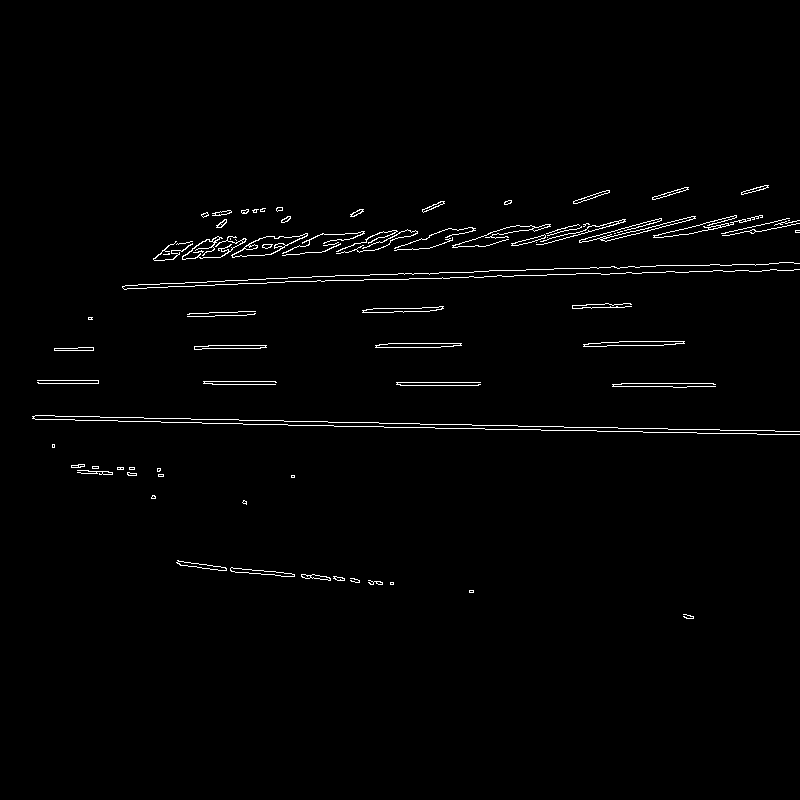
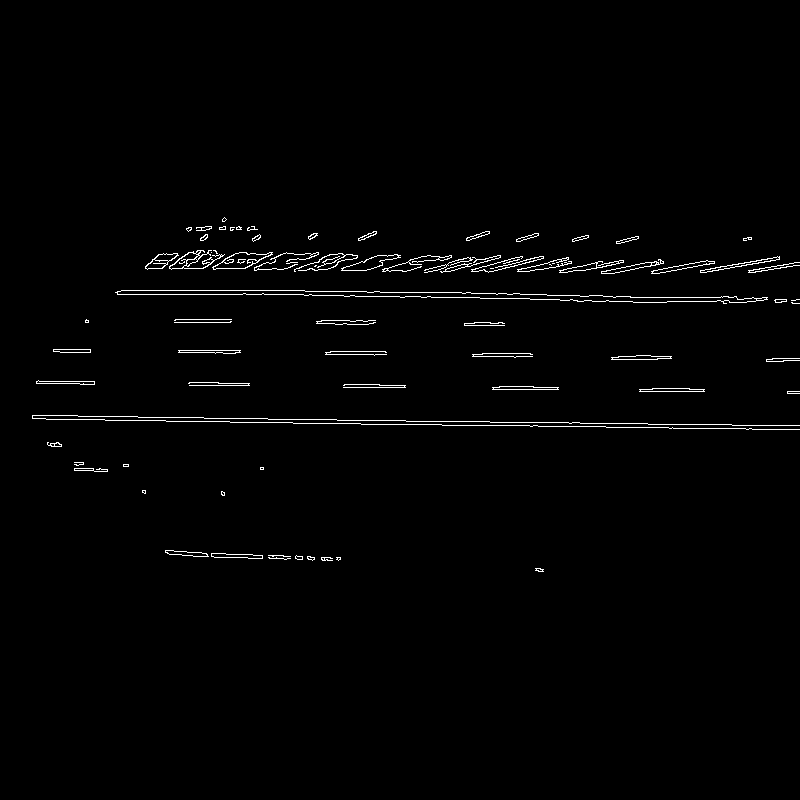
logs removed

diff --git a/ipm.py b/ipm.py
@@ -72,7 +72,11 @@ def get_lines():
     cv2.imwrite('canny_out.png',canny_out)
     
     #get lines
-    lines = cv2.HoughLines(canny_out, 1, np.pi / 180, 250)
+    lines = cv2.HoughLines(canny_out, 1, np.pi / 180, 240)
+    
+    if len(lines) == 0:
+        return 0
+
     for line in lines:
         rho,theta = line[0]
         a = np.cos(theta)
@@ -86,37 +90,37 @@ def get_lines():
         ll = myLine(x1, y1, x2, y2)
         det_lines.append(ll)
         cv2.line(threshold_filter_gray, (x1, y1), (x2, y2), (255, 0, 0), 1)
-        print("x1: " + str(x1) + "\ty1:" + str(y1)+ "\tx2:" + str(x2)+ "\ty2:" + str(y2))
+        #print("x1: " + str(x1) + "\ty1:" + str(y1)+ "\tx2:" + str(x2)+ "\ty2:" + str(y2))
 
     #find duplicate lines
     lineCount = len(det_lines)
-    print("\nlineCount: " + str(lineCount))
+    #print("\nlineCount: " + str(lineCount))
     if(lineCount >= 2):
         i = 0
         while i<lineCount:  
             j = i + 1
             while j<lineCount:
-                print(str(i) + " " + str(j))                
-                print(str(det_lines[i].x1) + "\t" + str(det_lines[i].y1)+ "\t" + str(det_lines[i].x2)+ "\t" + str(det_lines[i].y2))
-                print(str(det_lines[j].x1) + "\t" + str(det_lines[j].y1)+ "\t" + str(det_lines[j].x2)+ "\t" + str(det_lines[j].y2))
+                #print(str(i) + " " + str(j))                
+                #print(str(det_lines[i].x1) + "\t" + str(det_lines[i].y1)+ "\t" + str(det_lines[i].x2)+ "\t" + str(det_lines[i].y2))
+                #print(str(det_lines[j].x1) + "\t" + str(det_lines[j].y1)+ "\t" + str(det_lines[j].x2)+ "\t" + str(det_lines[j].y2))
                 dist_start = distance(det_lines[i].x1, det_lines[i].y1, det_lines[j].x1, det_lines[j].y1)
                 dist_end = distance(det_lines[i].x2, det_lines[i].y2, det_lines[j].x2, det_lines[j].y2)
-                print("d1 " + str(dist_start))
-                print("d2 " + str(dist_end))
+                #print("d1 " + str(dist_start))
+                #print("d2 " + str(dist_end))
                 if(dist_start < 30 and dist_end < 30):
-                    print("****remove " + str(i))
+                    #print("****remove " + str(i))
                     if(i not in rm_lines):
                         rm_lines.append(i)
                 j = j + 1
             i = i + 1
     
     #remove duplicate lines
-    print("rm_lines" + str(rm_lines))
+    #print("rm_lines" + str(rm_lines))
     while len(rm_lines) > 0:
         det_lines.pop(rm_lines[0])
         rm_lines.pop(0)
         rm_lines = [x - 1 for x in rm_lines]
-        print("rm_lines" + str(rm_lines))
+        #print("rm_lines" + str(rm_lines))
 
     #draw plot
     for i in range(len(det_lines)):
@@ -133,18 +137,18 @@ def get_lines():
         while i<lineCount:  
             j = i + 1
             while j<lineCount:
-                print(str(i) + " " + str(j))                
-                print(str(det_lines[i].x1) + "\t" + str(det_lines[i].y1)+ "\t" + str(det_lines[i].x2)+ "\t" + str(det_lines[i].y2))
-                print(str(det_lines[j].x1) + "\t" + str(det_lines[j].y1)+ "\t" + str(det_lines[j].x2)+ "\t" + str(det_lines[j].y2))
+                #print(str(i) + " " + str(j))                
+                #print(str(det_lines[i].x1) + "\t" + str(det_lines[i].y1)+ "\t" + str(det_lines[i].x2)+ "\t" + str(det_lines[i].y2))
+                #print(str(det_lines[j].x1) + "\t" + str(det_lines[j].y1)+ "\t" + str(det_lines[j].x2)+ "\t" + str(det_lines[j].y2))
                 dist_start = distance(det_lines[i].x1, det_lines[i].y1, det_lines[j].x1, det_lines[j].y1)
                 dist_end = distance(det_lines[i].x2, det_lines[i].y2, det_lines[j].x2, det_lines[j].y2)
-                print("d1 " + str(dist_start))
-                print("d2 " + str(dist_end))
-                if(abs(dist_start - dist_end) < 5):
+                #print("d1 " + str(dist_start))
+                #print("d2 " + str(dist_end))
+                if(abs(dist_start - dist_end) < 1):
                     return 1
                 j = j + 1
             i = i + 1
-    print("\n***************************************\n")
+    #print("\n***************************************\n")
     return 0  
 
 
@@ -165,7 +169,7 @@ if __name__ == '__main__':
             cv2.destroyAllWindows()
             break
         else:
-            cv2.waitKey(0)
+            cv2.waitKey(1)
         
         pitch = pitch + quanta
         json_object['pitch'] = pitch
